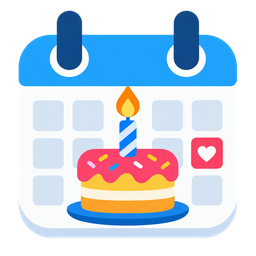
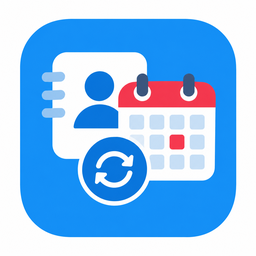
v1.2.0 - rename to CardDAV Contact Calendar

diff --git a/README.md b/README.md
@@ -1,4 +1,4 @@
-# CardDAV Birthday Calendar for Home Assistant
+# CardDAV Contact Calendar for Home Assistant
 
 [![HACS Custom](https://img.shields.io/badge/HACS-Custom-orange.svg)](https://github.com/hacs/integration)
 [![GitHub Release](https://img.shields.io/github/v/release/bertdeelman/ha-birthday-calendar)](https://github.com/bertdeelman/ha-birthday-calendar/releases)
@@ -8,7 +8,7 @@
 [![Last Commit](https://img.shields.io/github/last-commit/bertdeelman/ha-birthday-calendar)](https://github.com/bertdeelman/ha-birthday-calendar/commits)
 [![License](https://img.shields.io/github/license/bertdeelman/ha-birthday-calendar)](LICENSE)
 
-A Home Assistant custom integration that reads birthdays and custom dates from your **iCloud Contacts** via CardDAV and exposes them as a native HA calendar entity. Compatible with all Home Assistant calendar cards.
+A Home Assistant custom integration that reads contact dates from your **iCloud Contacts** via CardDAV and exposes them as a native HA calendar entity. Shows birthdays, anniversaries, memorial days and any other custom dates you have stored in your contacts.
 
 ---
 
@@ -29,7 +29,7 @@ A Home Assistant custom integration that reads birthdays and custom dates from y
 
 1. HACS → Integrations → Custom repositories
 2. Add `https://github.com/bertdeelman/ha-birthday-calendar` as **Integration**
-3. Download **CardDAV Birthday Calendar**
+3. Download **CardDAV Contact Calendar**
 4. Restart Home Assistant
 
 ### Manual
@@ -38,7 +38,7 @@ Copy `custom_components/carddav_birthday_calendar` to your HA `custom_components
 
 ## Setup
 
-1. Settings → Devices & Services → Add Integration → **CardDAV Birthday Calendar**
+1. Settings → Devices & Services → Add Integration → **CardDAV Contact Calendar**
 2. Enter your **Apple ID** (email address)
 3. Enter an **app-specific password** — not your regular Apple ID password!
    - Create one at [appleid.apple.com](https://appleid.apple.com) → Sign-In and Security → App-Specific Passwords
@@ -48,7 +48,7 @@ Copy `custom_components/carddav_birthday_calendar` to your HA `custom_components
 After setup, click **Configure** on the integration to set:
 
 - **Language** — English or Dutch
-- **Show age** — Include age in the event title
+- **Show age** — Include age in the event title (birthdays only)
 - **Days ahead** — How far ahead to load events (default: 365)
 
 ## Event title examples
@@ -56,7 +56,7 @@ After setup, click **Configure** on the integration to set:
 | Language | With age | Without age |
 |----------|----------|-------------|
 | English  | Emma birthday (32) | Emma birthday |
-| Dutch    | Emma birthday (32) | Emma birthday |
+| Dutch    | Emma verjaardag (32) | Emma verjaardag |
 | Custom   | Thomas and Lisa anniversary | Grandpa memorial day |
 
 ## Credits
